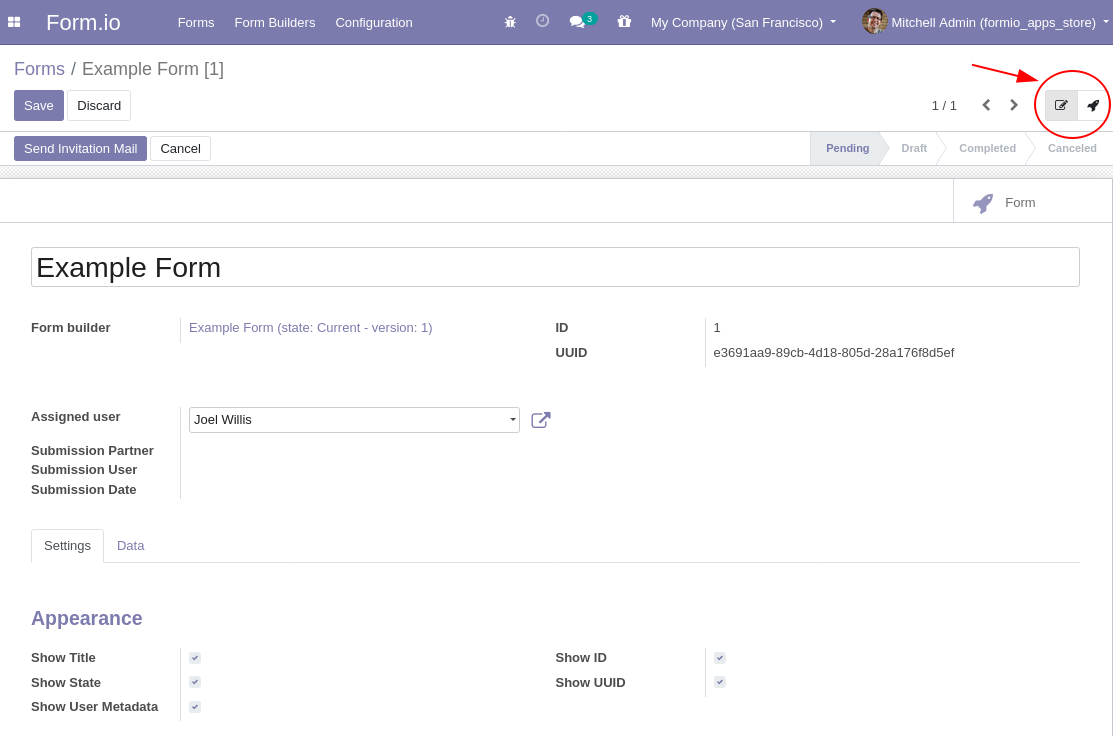
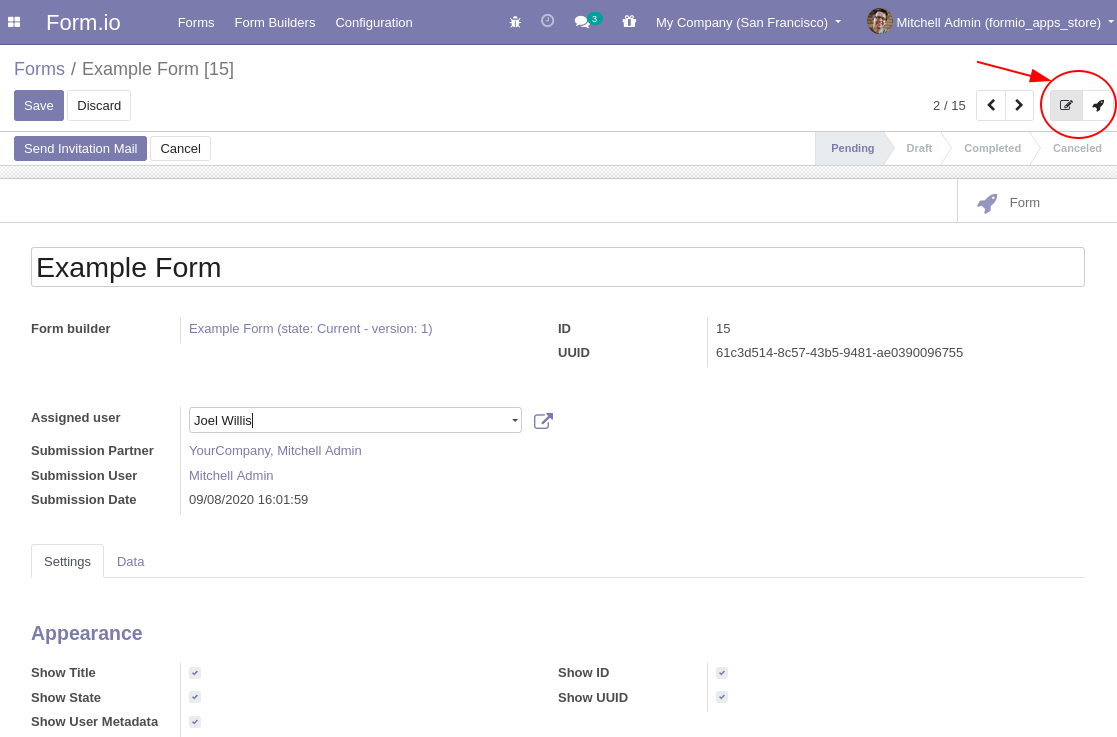
[DOC] formio: Update module doc/info and screenshots (part 10).

diff --git a/formio/static/description/index.html b/formio/static/description/index.html
@@ -1,7 +1,7 @@
 <section class="oe_container">
   <div class="oe_row oe_spaced">
     <h2 class="oe_slogan" style="color:#875A7B;"><b>Form.io</b> - <small style="color:#875A7B;"><em> Form Builder & Forms</em><small></h2>
-    <h3 class="oe_slogan">Powerful Form Builder and Forms integration</h3>
+    <h3 class="oe_slogan">Powerful Form Builder and Forms integration (on-premise)</h3>
   </div>
 </section>
 
@@ -32,7 +32,7 @@
     <tbody>
       <tr>
         <td><strong>Form Builder</strong></td>
-        <td>Powerful and seamless "Drag and drop" Form Building in Odoo.</td>
+        <td>Powerful and seamless "Drag and drop" Form Builder in Odoo.</td>
       </tr>
       <tr>
         <td><strong>Form Submissions</strong></td>
@@ -40,14 +40,14 @@
       </tr>
       <tr>
         <td><strong>Highly configurable</strong></td>
-        <td>Easily configure your Forms deployment, publishing and other functionalities (within the Form builder).</td>
+        <td>Easily configure your Forms deployment, publishing and other functionalities (done in the Form Builder).</td>
       </tr>
       <tr>
         <td><strong>Integration (ERP, workflow, website)</strong></td>
         <td>
           While building and deploying standalone Forms is enjoyable ...<br/>
-          Benefit from real power by integrating Forms with your workflow, ERP, e-commerce and other Odoo business apps.<br/>
-          Visit the other Form.io modules to get a basic idea - Click the author link <strong>Nova Code</strong> in the top. 
+          Benefit from real power by integrating Forms with your workflow, ERP, website, e-commerce and other Odoo business apps.<br/>
+          Visit the other Form.io modules to get a basic idea - Click the author link <strong style="color: #875A7B;">"Nova Code"</strong> in the top. 
         </td>
       </tr>
       <tr>
@@ -72,15 +72,18 @@
       </tr>
       <tr>
         <td><strong>On-premise</strong></td>
-        <td>All data stays on your server (in the Odoo database): Form Builders, Form Submissions etc.</td>
+        <td>All software and data stays on your server and Odoo database: Form Builders, Form Submissions etc.</td>
       </tr>
       <tr>
         <td><strong>Installation</strong></td>
         <td>After installation you can start right away. No extra technical requirements or setup.</td>
       </tr>
       <tr>
-        <td><strong>Open source</strong></td>
-        <td>Contributions are welcome (bug reports, pull requests).
+        <td><strong>We <i class="fa fa-heart"/> open source</strong></td>
+        <td>
+          - LGPL-3 licensed<br/>
+          - Issue reports and contributions are welcome on <code>https://github.com/novacode-nl/odoo-formio</code>
+        </td>
       </tr>
     </tbody>
   </table>
@@ -102,13 +105,13 @@
 <section class="oe_container oe_dark">
   <div class="oe_row oe_spaced">
     <h2 class="oe_slogan" style="color:#875A7B;">Form Builders</h2>
-    <h3 class="oe_slogan">Manage, configure and store in Odoo</h3>
+    <h3 class="oe_slogan">Configure, design and store in Odoo</h3>
     <div class="oe_row_img oe_centered">
-      <h4 class="oe_mb16 text-center">List Form Builders</h4>
+      <h4 class="oe_mb16 text-center">Form Builders</h4>
       <img class="oe_demo oe_picture oe_screenshot" src="builder-list.png">
     </div>
     <div class="oe_row_img oe_centered">
-      <h4 class="oe_mb16 text-center">Form Builder <small>Odoo record<small></h4>
+      <h4 class="oe_mb16 text-center">Form Builder Configuration</h4>
       <img class="oe_demo oe_picture oe_screenshot" src="builder-edit.png">
     </div>
     <div class="oe_row_img oe_centered">
@@ -122,20 +125,24 @@
   <div class="oe_row oe_spaced">
     <h2 class="oe_slogan" style="color:#875A7B;">Forms & Submissions</h2>
     <div class="oe_row_img oe_centered">
-      <h4 class="oe_mb16 text-center">Start with Form <small>(from Odoo or by hyperlink)</small></h4>
+      <h4 class="oe_mb16 text-center">Create a Form <small>(in Odoo or by hyperlink)</small></h4>
       <img class="oe_demo oe_picture oe_screenshot" src="form-odoo-create.png">
     </div>
     <div class="oe_row_img oe_centered">
-      <h4 class="oe_mb16 text-center">"Form.io" Form <small>(to fill in)</small></h4>
+      <h4 class="oe_mb16 text-center">Form: Pending</h4>
       <img class="oe_demo oe_picture oe_screenshot" src="form-formio.png">
     </div>
     <div class="oe_row_img oe_centered">
-      <h4 class="oe_mb16 text-center">List Form Submissions <small>(Odoo kanban/list of records)<small></h4>
-      <img class="oe_demo oe_picture oe_screenshot" src="form-list.png">
+      <h4 class="oe_mb16 text-center">Form: Completed</h4>
+      <img class="oe_demo oe_picture oe_screenshot" src="form-formio-completed.png">
     </div>
     <div class="oe_row_img oe_centered">
-      <h4 class="oe_mb16 text-center">A Form Submission <small>(Odoo record)<small></h4>
+      <h4 class="oe_mb16 text-center">Form: Submission form-view</h4>
       <img class="oe_demo oe_picture oe_screenshot" src="form-details.png">
+    </div>
+    <div class="oe_row_img oe_centered">
+      <h4 class="oe_mb16 text-center">Form Submissions</h4>
+      <img class="oe_demo oe_picture oe_screenshot" src="form-list.png">
     </div>
   </div>
 </section>
@@ -152,7 +159,7 @@
       <img class="oe_demo oe_picture oe_screenshot" src="formio-version-check-install.png">
     </div>
     <div class="oe_row_img oe_centered">
-      <h4 class="oe_mb16 text-center">Download &amp; Install available (Form.io GUI) Version</h4>
+      <h4 class="oe_mb16 text-center">Download &amp; Install Available (Form.io GUI) Versions</h4>
       <img class="oe_demo oe_picture oe_screenshot" src="formio-version-download-install.png">
     </div>
   </div>
@@ -202,7 +209,7 @@
       <li>
         Change the public Form loading and submit (URLs, handling) from ID to UUID.<br/>
         This slightly protects from abuse of public Forms (some obfuscation of the real id).
-        <pre>https://github.com/novacode-nl/odoo-formio/issues/46</pre>
+        <code>https://github.com/novacode-nl/odoo-formio/issues/46</code>
       </li>
     </ul>
     <h4 class="oe_mb16">5.1</h4>
@@ -299,12 +306,12 @@
         Fix silly Javascript bug: <code>_.extend</code> (underscore.js ain't loaded here). Use jQuery extend.
       </li>
       <li>
-        Add help text regarding issue with (Formio.js) and <code>view_as_html</code> setting <pre>https://github.com/formio/formio.js/issues/1545</pre>
+        Add help text regarding issue with (Formio.js) and <code>view_as_html</code> setting <code>https://github.com/formio/formio.js/issues/1545</code>
       </li>
     </ul>
     <h4 class="oe_mb16">3.5</h4>
     <ul>
-      <li>Add formio.js <strong>v4.9.26</strong> assets <pre>(https://github.com/formio/formio.js/releases/tag/v4.9.26)</li>
+      <li>Add formio.js <strong>v4.9.26</strong> assets <code>https://github.com/formio/formio.js/releases/tag/v4.9.26</code></li>
       <li>User in group <em>"Form.io Admin</em> can edit the Form it's submission data, for a new Form (if ain't stored).
     </ul>
     <h4 class="oe_mb16">3.4</h4>
@@ -330,14 +337,14 @@
     <ul>
       <li>
         Optional configuration to allow specific User Group(s) to force update of a <strong>Form state</strong> field (draft, complete, cancel) e.g. by buttons.
-        Feature request: <pre>https://github.com/novacode-nl/odoo-formio/issues/36</pre>
+        Feature request: <code>https://github.com/novacode-nl/odoo-formio/issues/36</code>
       </li>
     </ul>
     <h4 class="oe_mb16">3.1</h4>
     <ul>
       <li>
         Fix portal iframe (height) resizing issue.<br/>
-        Issue report: <pre>https://github.com/novacode-nl/odoo-formio/issues/35</pre>
+        Issue report: <code>https://github.com/novacode-nl/odoo-formio/issues/35</code>
       </li>
     </ul>
     <h4 class="oe_mb16">3.0</h4>
@@ -356,12 +363,12 @@
     <ul>
       <li>
         Fix (workaround) to solve form height-resizing issues.<br/>
-        Issue report: <pre>https://github.com/novacode-nl/odoo-formio/issues/20</pre>
+        Issue report: <code>https://github.com/novacode-nl/odoo-formio/issues/20</code>
       </li>
     </ul>
     <h4 class="oe_mb16">2.1</h4>
     <ul>
-      <li>Add formio.js <strong>v4.9.23</strong> assets <pre>(https://github.com/formio/formio.js/releases/tag/v4.9.23)</li>
+      <li>Add formio.js <strong>v4.9.23</strong> assets <code>(https://github.com/formio/formio.js/releases/tag/v4.9.23)</li>
       <li>Remove formio.js "latest" version (CDN URLs). Requests from CDN caused time-outs.</li>
     </ul>
     <h4 class="oe_mb16">2.0</h4>
@@ -403,7 +410,7 @@
       <li>
         Change URLs and controllers FROM <code>/formio/form/&lt;action&gt;/&lt;string:uuid&gt;</code> URLs TO <code>/formio/form/&lt;string:uuid&gt;/&lt;action&gt;</code>. This solves issues regarding relative URLs from a Formio Javascript perspective (components).
         The UUID was stripped by the Formio Javascript client API.<br/>
-        Should solve: <pre>https://github.com/novacode-nl/odoo-formio/issues/11</pre>
+        Should solve: <code>https://github.com/novacode-nl/odoo-formio/issues/11</code>
       </li>
       <li>
         Remove 2 legacy (obsolete) controller methods for routes: <code>/formio/form/&lt;string:uuid&gt;</code> and <code>/formio/builder/&lt;int:builder_id&gt;</code>
